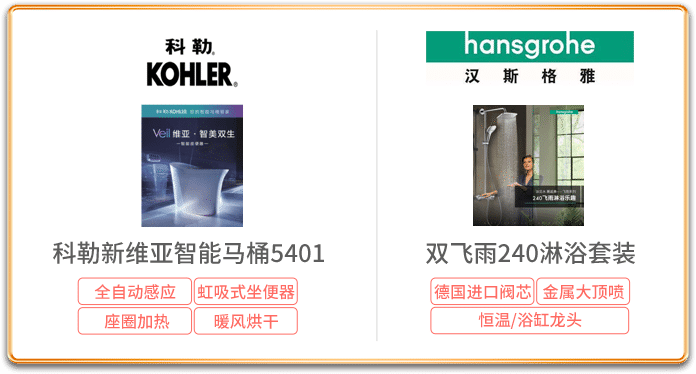
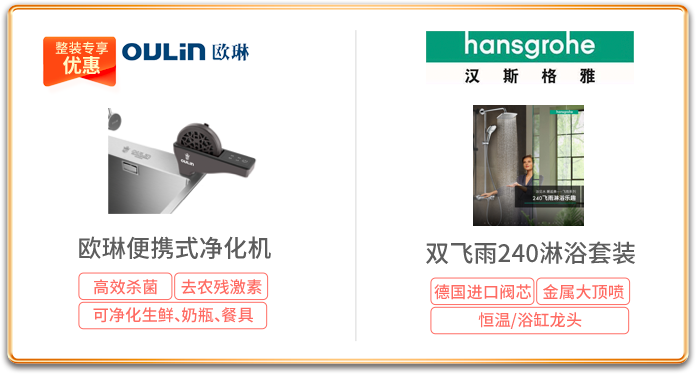
优化

Changed region(s): [[0.0603, 0.2647, 0.4828, 0.9118], [0.0603, 0.0882, 0.3621, 0.2353], [0.7241, 0.4706, 0.7543, 0.5]]

diff --git a/views/jzj.html b/views/jzj.html
@@ -1265,13 +1265,13 @@
                     
                 </div>
                 <div class="cwg-5">
-                    <a href="https://detail.tmall.com/item.htm?spm=a1z10.1-b-s.w5003-22068830716.6.6adf4db7Hid9tJ&id=611849773882&rn=0f7188720ac7169ffefcf8bdd22f476c&abbucket=9&scene=taobao_shop&sku_properties=3064618:29432734"><div class="left"></div></a>
+                    <a onclick="_hmt.push(['_trackEvent', '品牌展馆-厨卫馆','click', '沪尚茗居-欧琳便携式净化机']);" href="https://aisite.wejianzhan.com/site/mingjugroup.com/216a0f32-4755-4f7e-bc45-c431649028fa"><div class="left"></div></a>
                     <a href="https://detail.tmall.com/item.htm?spm=a1z10.1-b-s.w16147682-22559681189.1.3ae955dcNIIwr0&id=533900639197&scene=taobao_shop"><div class="right"></div></a>
                     
                 </div>
                 <div class="cwg-6">
                     <a href="https://www.zwilling.com.cn/item/ZWC018"><div class="left"></div></a>
-                    <a onclick="_hmt.push(['_trackEvent', '品牌展馆-厨卫馆','click', '沪尚茗居-欧琳便携式净化机']);" href="https://aisite.wejianzhan.com/site/mingjugroup.com/216a0f32-4755-4f7e-bc45-c431649028fa"><div class="right"></div></a>
+                    <a href="https://detail.tmall.com/item.htm?spm=a1z10.1-b-s.w5003-22068830716.6.6adf4db7Hid9tJ&id=611849773882&rn=0f7188720ac7169ffefcf8bdd22f476c&abbucket=9&scene=taobao_shop&sku_properties=3064618:29432734"><div class="right"></div></a>
                 </div>
            </div>
            <div class="jdg" id="jdg">
